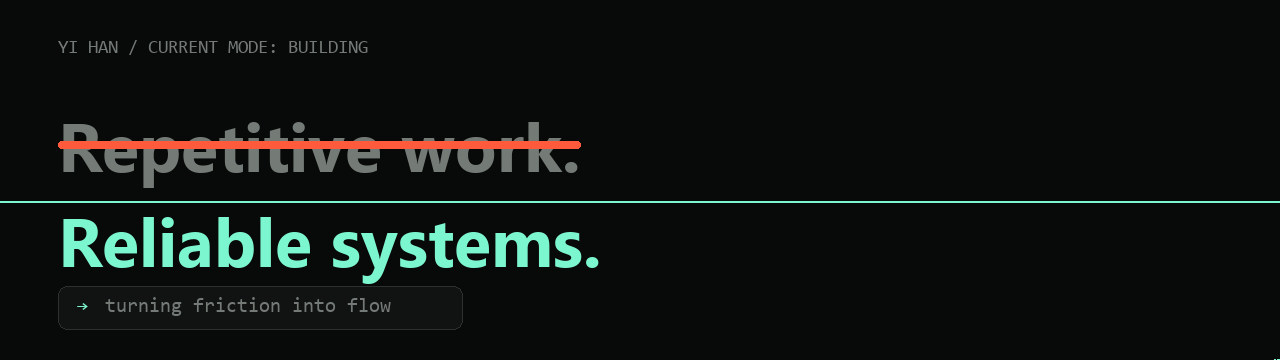
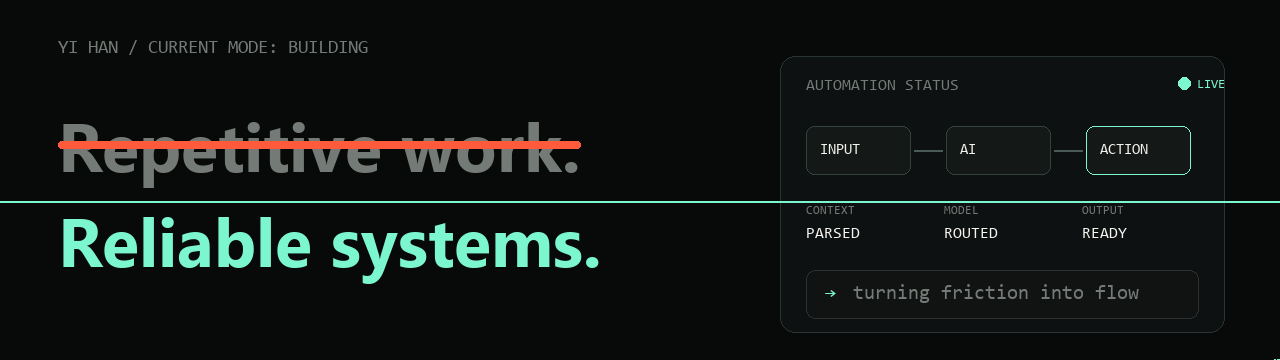
fix: refine profile README presentation

diff --git a/scripts/render_hero.py b/scripts/render_hero.py
@@ -51,15 +51,15 @@ def draw_header(draw: ImageDraw.ImageDraw) -> None:
 def draw_prompt(draw: ImageDraw.ImageDraw, frame: int) -> None:
     mono = font(MONO_FONT, 20)
     draw.rounded_rectangle(
-        (58, 286, 462, 329),
+        (806, 270, 1198, 318),
         radius=9,
         fill="#111313",
         outline=BORDER,
     )
-    draw.text((77, 297), "→", font=mono, fill=MINT)
-    draw.text((105, 297), "turning friction into flow", font=mono, fill=MUTED)
+    draw.text((825, 284), "→", font=mono, fill=MINT)
+    draw.text((853, 284), "turning friction into flow", font=mono, fill=MUTED)
     if (frame // 10) % 2 == 0:
-        draw.rectangle((432, 300, 439, 318), fill=MINT)
+        draw.rectangle((1168, 287, 1175, 305), fill=MINT)
 
 
 def draw_scanline(draw: ImageDraw.ImageDraw, frame: int) -> None:
@@ -68,6 +68,47 @@ def draw_scanline(draw: ImageDraw.ImageDraw, frame: int) -> None:
     fade = min(1.0, min(progress, 1 - progress) * 14)
     color = (124, 246, 206, int(100 * fade))
     draw.line((0, y, WIDTH, y), fill=color, width=2)
+
+
+def draw_status_node(
+    draw: ImageDraw.ImageDraw,
+    x: int,
+    label: str,
+    active: bool,
+) -> None:
+    outline = MINT if active else "#35413D"
+    draw.rounded_rectangle(
+        (x, 126, x + 104, 174),
+        radius=8,
+        fill="#141918",
+        outline=outline,
+    )
+    draw.text((x + 14, 142), label, font=font(MONO_FONT, 15), fill=OFF_WHITE)
+
+
+def draw_status_panel(draw: ImageDraw.ImageDraw, frame: int) -> None:
+    draw.rounded_rectangle(
+        (780, 56, 1224, 332),
+        radius=15,
+        fill="#0E1111",
+        outline="#293330",
+    )
+    draw.text((806, 78), "AUTOMATION STATUS", font=font(MONO_FONT, 16), fill=MUTED)
+    draw.ellipse((1178, 77, 1190, 89), fill=MINT)
+    draw.text((1197, 78), "LIVE", font=font(MONO_FONT, 13), fill=MINT)
+
+    active_node = min(2, (frame % 75) // 25)
+    positions = (806, 946, 1086)
+    for index, (x, label) in enumerate(zip(positions, ("INPUT", "AI", "ACTION"))):
+        draw_status_node(draw, x, label, index == active_node)
+        if index < 2:
+            draw.line((x + 108, 150, x + 136, 150), fill="#4A5A55", width=2)
+
+    labels = (("CONTEXT", "PARSED"), ("MODEL", "ROUTED"), ("OUTPUT", "READY"))
+    for index, (label, value) in enumerate(labels):
+        x = 806 + index * 138
+        draw.text((x, 205), label, font=font(MONO_FONT, 12), fill=MUTED)
+        draw.text((x, 226), value, font=font(MONO_FONT, 16), fill=OFF_WHITE)
 
 
 def mark_frame(draw: ImageDraw.ImageDraw, frame: int) -> None:
@@ -108,6 +149,7 @@ def make_frame(frame: int) -> Image.Image:
     draw = ImageDraw.Draw(image, "RGBA")
     draw_header(draw)
     draw_statement(draw, frame)
+    draw_status_panel(draw, frame)
     draw_prompt(draw, frame)
     draw_scanline(draw, frame)
     mark_frame(draw, frame)

diff --git a/tests/test_render_hero.py b/tests/test_render_hero.py
@@ -4,10 +4,29 @@ from pathlib import Path
 
 from PIL import Image
 
-from scripts.render_hero import FPS, FRAME_COUNT, render_assets
+from scripts.render_hero import FPS, FRAME_COUNT, make_frame, render_assets
 
 
 class RenderHeroTests(unittest.TestCase):
+    def test_prompt_never_enters_manifesto_safe_area(self) -> None:
+        prompt_fill = (17, 19, 19)
+        for frame_number in range(FRAME_COUNT):
+            frame = make_frame(frame_number)
+            safe_area = frame.crop((40, 80, 720, 330))
+            prompt_pixels = sum(
+                pixel == prompt_fill for pixel in safe_area.get_flattened_data()
+            )
+            self.assertEqual(prompt_pixels, 0, f"overlap at frame {frame_number}")
+
+    def test_right_status_area_has_visual_content(self) -> None:
+        frame = make_frame(55)
+        right_area = frame.crop((760, 55, 1230, 330))
+        background = (8, 9, 9)
+        content_pixels = sum(
+            pixel != background for pixel in right_area.get_flattened_data()
+        )
+        self.assertGreater(content_pixels, 15_000)
+
     def test_rendered_assets_match_profile_constraints(self) -> None:
         with tempfile.TemporaryDirectory() as directory:
             gif_path, png_path = render_assets(Path(directory))

diff --git a/tests/test_readme.py b/tests/test_readme.py
@@ -47,6 +47,12 @@ class ReadmeTests(unittest.TestCase):
         for value in banned:
             self.assertNotIn(value, lowered)
 
+    def test_projects_use_a_structured_visual_table(self) -> None:
+        self.assertIn("<table>", self.text)
+        self.assertEqual(self.text.count("<tr>"), 3)
+        for number in ("01", "02", "03"):
+            self.assertIn(f"<strong>{number}</strong>", self.text)
+
 
 if __name__ == "__main__":
     unittest.main()

diff --git a/README.md b/README.md
@@ -4,31 +4,44 @@
 
 A full-stack developer in Auckland building **AI-assisted products and practical automation**. I turn messy, repetitive workflows into reliable systems people can actually use.
 
-[View my portfolio](https://hannnnnnnny.github.io/yi-han-software-engineer/) · [Connect on LinkedIn](https://www.linkedin.com/in/yi-han-29ab28323/) · [Email me](mailto:harryhaber606@gmail.com)
+**[View my portfolio ↗](https://hannnnnnnny.github.io/yi-han-software-engineer/)** · **[Connect on LinkedIn ↗](https://www.linkedin.com/in/yi-han-29ab28323/)** · **[Email me ↗](mailto:harryhaber606@gmail.com)**
+
+## What I build
+
+> **AUTOMATE** — AI-assisted workflows that reduce repetitive work.
+>
+> **ENGINEER** — Full-stack products with clear, useful interfaces.
+>
+> **CONNECT** — Systems that turn data and context into action.
 
 ## Selected systems
 
-### [01 · KiwiCue](https://github.com/hannnnnnnny/kiwicue)
-
-Bilingual Auckland event discovery with smart reminders.
-
-TypeScript · Product discovery · Automation
-
----
-
-### [02 · PanSub](https://github.com/hannnnnnnny/pansub)
-
-Real-time AI Chinese subtitles for lecture recordings.
-
-JavaScript · AI integration · Accessibility
-
----
-
-### [03 · Till Tally](https://github.com/hannnnnnnny/till-tally)
-
-Retail analytics that turns sales data into useful decisions.
-
-TypeScript · Data visualization · Business intelligence
+<table>
+  <tr>
+    <td width="10%" align="center"><strong>01</strong></td>
+    <td width="58%">
+      <strong><a href="https://github.com/hannnnnnnny/kiwicue">KiwiCue ↗</a></strong><br />
+      Bilingual Auckland event discovery with smart reminders.
+    </td>
+    <td width="32%"><code>TypeScript</code><br /><sub>Discovery · Automation</sub></td>
+  </tr>
+  <tr>
+    <td width="10%" align="center"><strong>02</strong></td>
+    <td width="58%">
+      <strong><a href="https://github.com/hannnnnnnny/pansub">PanSub ↗</a></strong><br />
+      Real-time AI Chinese subtitles for lecture recordings.
+    </td>
+    <td width="32%"><code>JavaScript</code><br /><sub>AI · Accessibility</sub></td>
+  </tr>
+  <tr>
+    <td width="10%" align="center"><strong>03</strong></td>
+    <td width="58%">
+      <strong><a href="https://github.com/hannnnnnnny/till-tally">Till Tally ↗</a></strong><br />
+      Retail analytics that turns sales data into useful decisions.
+    </td>
+    <td width="32%"><code>TypeScript</code><br /><sub>Data · Business intelligence</sub></td>
+  </tr>
+</table>
 
 ## Working with
 
